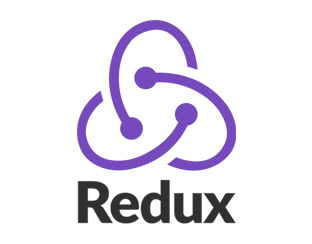
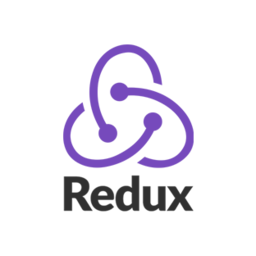
style updates, update readme

Changed region(s): [[0.2188, 0.4877, 0.7812, 0.918], [0.25, 0.0574, 0.75, 0.4877], [0.375, 0.5164, 0.4688, 0.5738]]

diff --git a/src/components/logs/AddLogModal.js b/src/components/logs/AddLogModal.js
@@ -34,7 +34,7 @@ const AddLogModal = ({ addLog }) => {
   return (
     <div id="add-log-modal" className="modal" style={modalStyle}>
       <div className="modal-content">
-        <h4>Enter System Log</h4>
+        <h4 style={{ fontSize: "1.8rem" }}>Enter System Log</h4>
         <div className="row">
           <div className="input-field">
             <input
@@ -67,23 +67,24 @@ const AddLogModal = ({ addLog }) => {
           </div>
         </div>
 
-        <div className="row">
-          <div className="input-field">
-            <p>
-              <label>
-                <input
-                  type="checkbox"
-                  className="filled-in"
-                  checked={attention}
-                  value={attention}
-                  onChange={(e) => setAttention(!attention)}
-                />
-                <span>Needs Attention</span>
-              </label>
-            </p>
-          </div>
+        {/* <div className="row"> */}
+        <div className="input-field">
+          <p>
+            <label>
+              <input
+                type="checkbox"
+                className="filled-in"
+                checked={attention}
+                value={attention}
+                onChange={(e) => setAttention(!attention)}
+              />
+              <span>Needs Attention</span>
+            </label>
+          </p>
         </div>
       </div>
+      {/* </div> */}
+
       <div className="modal-footer">
         <a
           href="#!"

diff --git a/src/components/logs/EditLogModal.js b/src/components/logs/EditLogModal.js
@@ -23,7 +23,7 @@ const EditLogModal = () => {
   return (
     <div id="edit-log-modal" className="modal" style={modalStyle}>
       <div className="modal-content">
-        <h4>Enter System Log</h4>
+        <h4>Edit System Log</h4>
         <div className="row">
           <div className="input-field">
             <input
@@ -56,23 +56,24 @@ const EditLogModal = () => {
           </div>
         </div>
 
-        <div className="row">
-          <div className="input-field">
-            <p>
-              <label>
-                <input
-                  type="checkbox"
-                  className="filled-in"
-                  checked={attention}
-                  value={attention}
-                  onChange={(e) => setAttention(!attention)}
-                />
-                <span>Needs Attention</span>
-              </label>
-            </p>
-          </div>
+        {/* <div className="row"> */}
+        <div className="input-field">
+          <p>
+            <label>
+              <input
+                type="checkbox"
+                className="filled-in"
+                checked={attention}
+                value={attention}
+                onChange={(e) => setAttention(!attention)}
+              />
+              <span>Needs Attention</span>
+            </label>
+          </p>
         </div>
       </div>
+      {/* </div> */}
+
       <div className="modal-footer">
         <a
           href="#!"

diff --git a/src/components/logs/LogItem.js b/src/components/logs/LogItem.js
@@ -17,11 +17,14 @@ const LogItem = ({ log }) => {
         <br />
         <span className="grey-text">
           <span className="black-text">ID #{log.id}</span> last updated by{" "}
-          <span className="black-text">{log.tech}</span> on{" "}
-          <Moment format="MMMM Do YYYY, h:mm:ss a">{log.date}</Moment>
+          <span className="black-text">{log.tech}</span>{" "}
+        </span>
+        <br />
+        <span className="grey-text">
+          On <Moment format="MMMM Do YYYY, h:mm:ss a">{log.date}</Moment>
         </span>
         <a href="#!" className="secondary-content">
-          <i className="material-icons grey-text">delete</i>{" "}
+          <i className="material-icons grey-text">delete</i>
           {/* material icons format: you put name of icon in the <i>'s content  */}
         </a>
       </div>

diff --git a/src/components/logs/Logs.js b/src/components/logs/Logs.js
@@ -17,8 +17,17 @@ const Logs = ({ log: { logs, loading }, getLogs }) => {
 
   return (
     <ul className="collection with-header">
-      <li className="collection-header">
-        <h4 className="center">System Logs</h4>
+      <li className="collection-header center">
+        <h4
+          style={{
+            backgroundImage: "url(/img/redux.png)",
+            backgroundSize: "42px 42px",
+            backgroundRepeat: "no-repeat",
+            backgroundPosition: "calc(50% - 110px)",
+          }}
+        >
+          System Logs
+        </h4>
       </li>
       {!loading && logs.length === 0 ? (
         <p className="center">No logs to show...</p>

diff --git a/src/components/layout/AddBtn.js b/src/components/layout/AddBtn.js
@@ -2,7 +2,7 @@ import React from "react";
 
 const AddBtn = () => {
   return (
-    <div className="fixed-action-btn">
+    <div className="fixed-action-btn click-to-toggle">
       <a
         href="#add-log-modal"
         className="btn-floating btn-large blue darken-2 modal-trigger"

diff --git a/src/components/techs/AddTechModal.js b/src/components/techs/AddTechModal.js
@@ -50,6 +50,7 @@ const AddTechModal = () => {
           </div>
         </div>
       </div>
+
       <div className="modal-footer">
         <a
           href="#!"

diff --git a/README.md b/README.md
@@ -1,5 +1,10 @@
 # it-logger-redux
 
+![Preview](public/img/preview.png)
+![Enter Log](public/img/enterlog.png)
+![Add New Tech](public/img/newtech.png)
+![Tech List](public/img/techlist.png)
+
 ## Run the app
 - `npm install`
 - `npm run dev`
@@ -27,9 +32,9 @@
 
 To add a functionality using Redux...
 (for example, see commit "add logs" from Jun 16, 2020)
-* Add action (that will dispatch to reducer)
-* Add reducer functionality, which will control the state
-* Then, connect to component 
+1. Add action (that will dispatch to reducer)
+2. Add reducer functionality, which will control the state
+3. Then, connect to component 
 
 To use in a component...
 - `import { connect } from "react-redux"`
